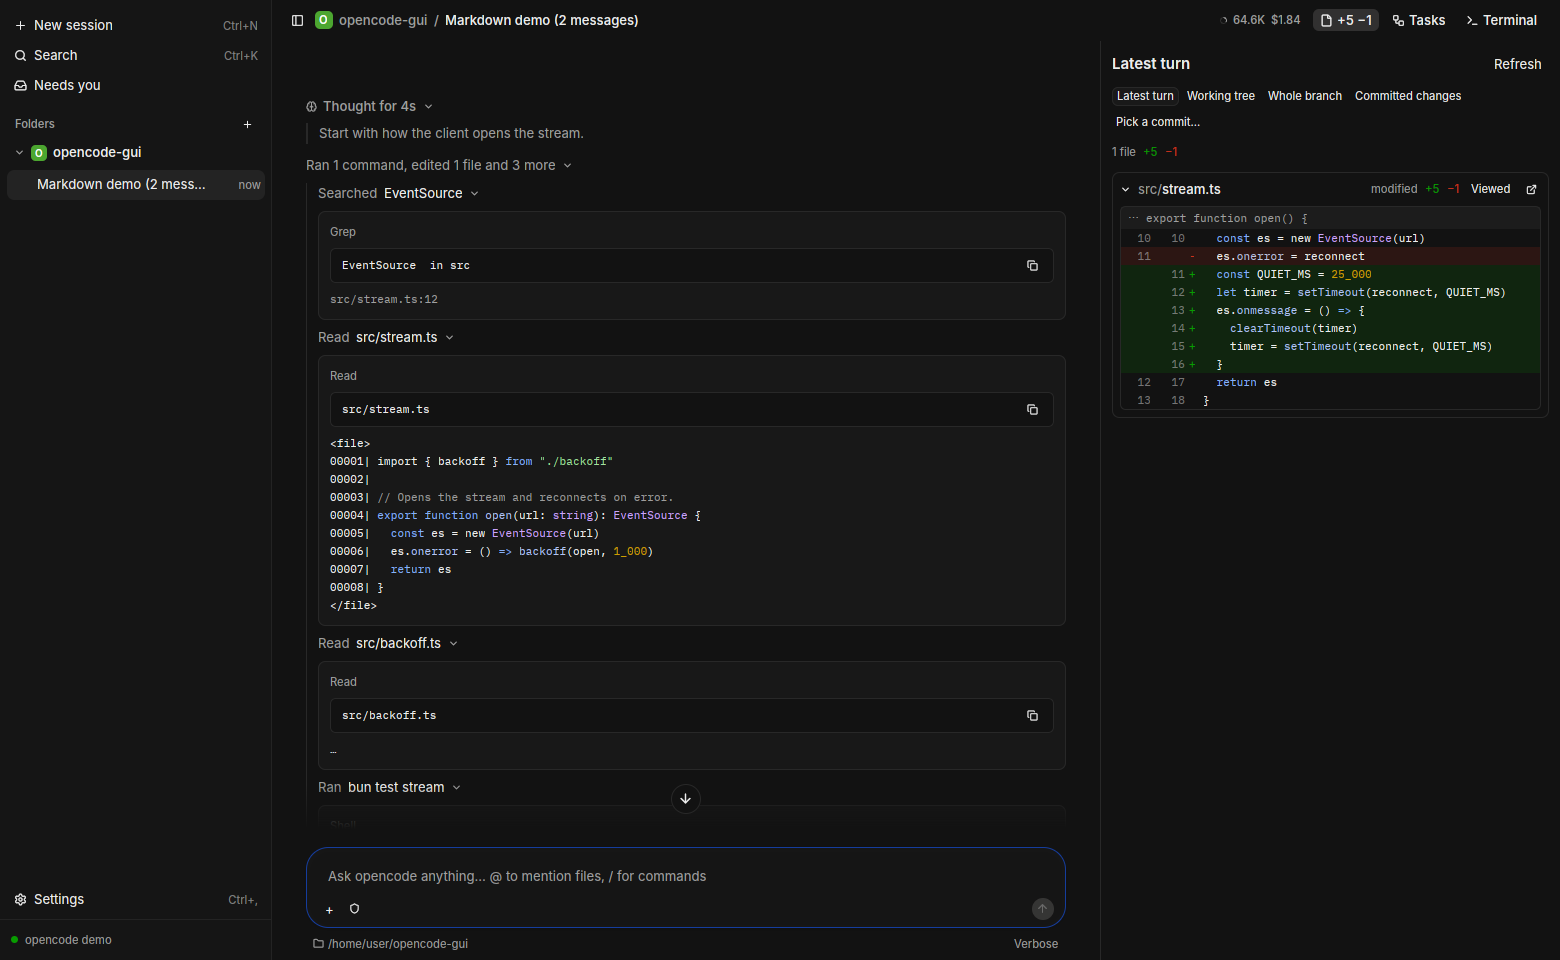
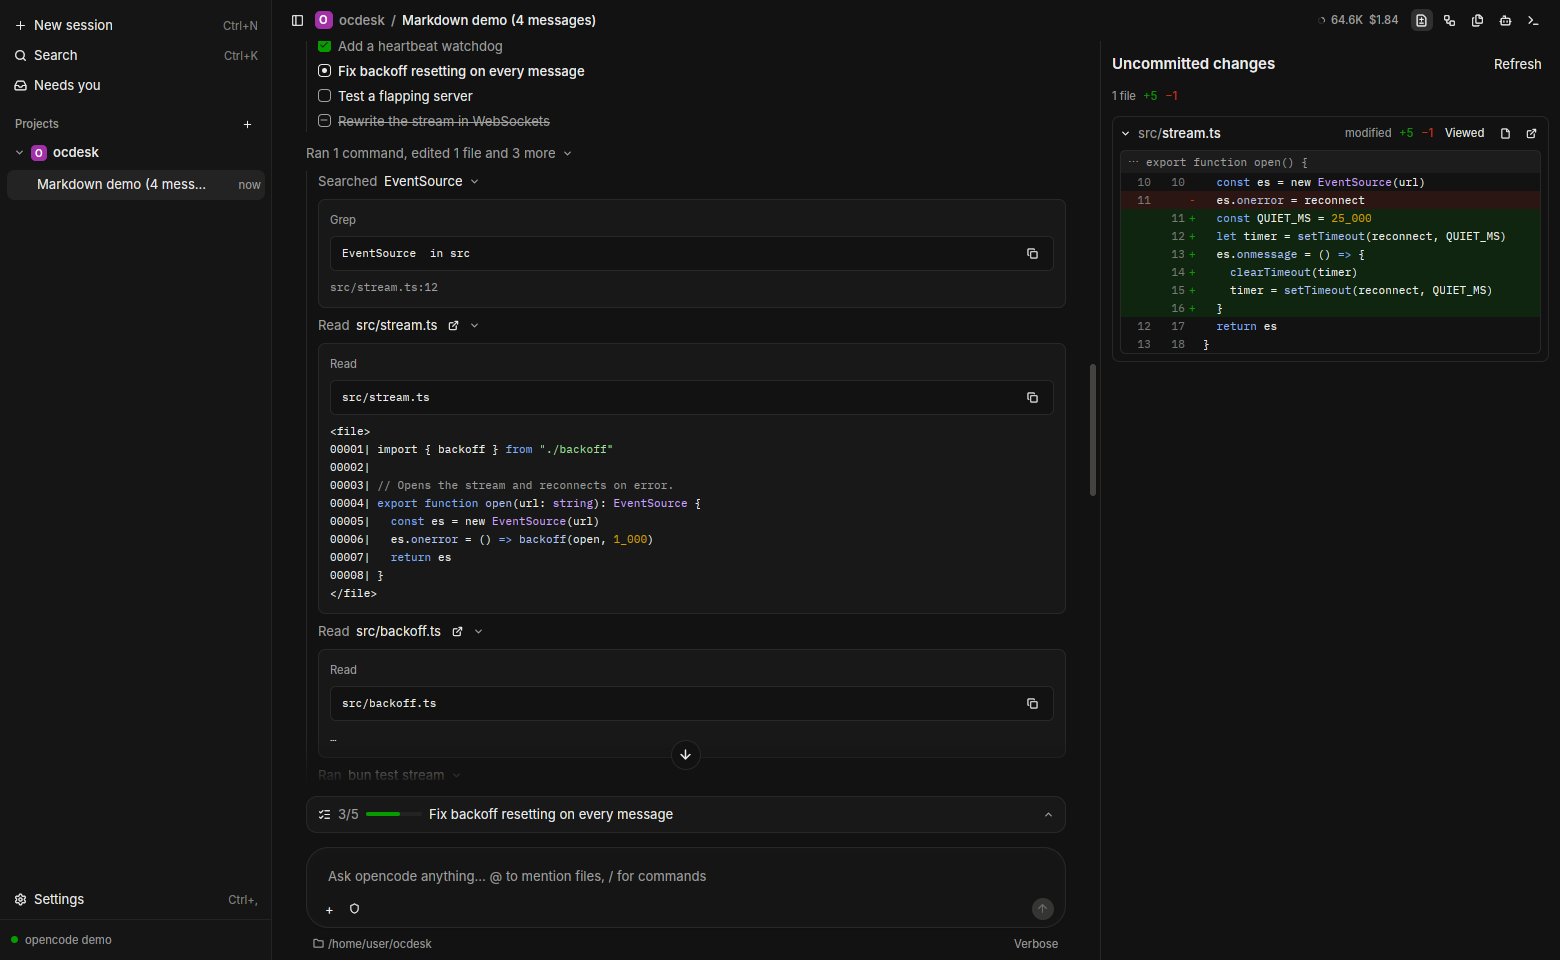
docs: refresh README screenshots from the current UI
Re-captured all five screenshots in demo mode: current header, Projects
sidebar and Uncommitted changes panel, and the failed step now shows a
migration error instead of a provider 529 overloaded message.

Claude-Session: https://claude.ai/code/session_01KSMAksxE4fCLTZtXb5sf3C

diff --git a/README.md b/README.md
@@ -18,7 +18,7 @@ Rust + [GPUI](https://www.gpui.rs) (the UI framework behind Zed). No Electron, n
 
 <br>
 
-<img src="docs/screenshots/ux-transcript-approval.png" alt="ocdesk: a plan with Implement plan, a failed step with Retry, and a command approval above the prompt">
+<img src="docs/screenshots/ux-transcript-approval.png" alt="ocdesk: a subagent fan-out, a failed step with Retry, a todo progress pill and a command approval above the prompt">
 
 </div>
 
